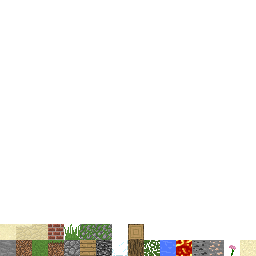
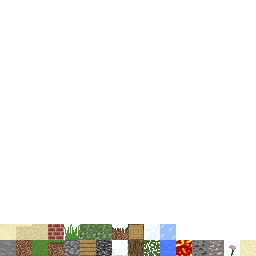
A cold biome

Changed region(s): [[0.5625, 0.875, 0.6875, 0.9375], [0.4375, 0.875, 0.5, 0.9375]]

diff --git a/src/shared/world/jeneration/jeneration.cpp b/src/shared/world/jeneration/jeneration.cpp
@@ -43,7 +43,7 @@ COverworldJeneration::COverworldJeneration()
 	m_biomesOvergroundTemperatureNoise.seed		  = m_iSeed + 102;
 	m_biomesOvergroundTemperatureNoise.noise_type = FNL_NOISE_PERLIN;
 	m_biomesOvergroundTemperatureNoise.octaves	  = 1;
-	m_biomesOvergroundTemperatureNoise.frequency  = 0.01f;
+	m_biomesOvergroundTemperatureNoise.frequency  = 0.02f;
 
 	m_biomesOvergroundHumidityNoise				 = fnlCreateState();
 	m_biomesOvergroundHumidityNoise.seed		 = m_iSeed + 22106;
@@ -102,7 +102,7 @@ void COverworldJeneration::BiomeBlocks( CChunk *c )
 			{
 				// TODO: Actually fix this as it tries to query chunks that don't exist yet.
 				CBlock *blk = c->GetBlockAtLocal( CVector( x, y, z ) );
-				if ( blk != nullptr && blk->m_iBlockType != STONE )
+				if ( blk != nullptr && blk->m_iBlockType == AIR )
 					continue;
 
 				CBlock *b = c->GetBlockAtLocal( CVector( x, y + 1, z ) );
@@ -113,8 +113,16 @@ void COverworldJeneration::BiomeBlocks( CChunk *c )
 
 				if ( b->m_iBlockType == AIR )
 				{
-					blk->m_iBlockType = biome->m_iBlockSurface;
-					grassDepth--;
+					if (blk->m_iBlockType == STONE)
+					{
+						b->m_iBlockType = biome->m_iBlockDust;
+						blk->m_iBlockType = biome->m_iBlockSurface;
+						grassDepth--;
+					}
+					else
+					{
+						blk->m_iBlockType = biome->m_iBlockWaterSurf;
+					}
 				}
 				else if ( b->m_iBlockType == biome->m_iBlockSurface ||
 						  b->m_iBlockType == biome->m_iBlockSubSurface && grassDepth > 0 )
@@ -176,14 +184,20 @@ void COverworldJeneration::Generate( CChunk *c )
 
 CBiome *COverworldJeneration::GetBiomeAtPos( CVector p )
 {
-	float fTemperature = 1.35f + fnlGetNoise2D( &m_biomesOvergroundTemperatureNoise, p.x, p.z );
+	float fTemperature = (fnlGetNoise2D( &m_biomesOvergroundTemperatureNoise, p.x, p.z ) + 1.0f);
 	// float fHumidity = fnlGetNoise2D( &m_biomesOvergroundHumidityNoise, p.x, p.z );
 
 	CBiome *closestBiome = biomes::biomeList[0];
 
 	for ( CBiome *biome : biomes::biomeList )
 	{
-		if ( fabsf( biome->m_fTemperature - fTemperature ) < fabsf( closestBiome->m_fTemperature - fTemperature ) )
+		if (fTemperature >= biome->m_fMinTemperature && fTemperature <= biome->m_fMaxTemperature)
+		{
+			return biome;
+		}
+
+		// Else try to find the closest to the max temperature
+		if ( fabsf( biome->m_fMaxTemperature - fTemperature ) < fabsf( closestBiome->m_fMaxTemperature - fTemperature ) )
 			closestBiome = biome;
 	}
 

diff --git a/src/shared/world/jeneration/biomes.cpp b/src/shared/world/jeneration/biomes.cpp
@@ -4,6 +4,7 @@ namespace biomes
 {
 	CBiome biomePlains;
 	CBiome biomeDesert;
+	CBiome biomeTundra;
 
 	std::vector<CBiome *> biomeList;
 
@@ -25,14 +26,26 @@ void InitBiomes()
 	biomePlains.m_iBlockSurface	   = GRASS;
 	biomePlains.m_iBlockSubSurface = DIRT;
 	biomePlains.m_iBlockRock	   = STONE;
-	biomePlains.m_fTemperature	   = 0.8f;
+	biomePlains.m_fMinTemperature	   = 0.6f;
+	biomePlains.m_fMaxTemperature      = 1.6f;
 	biomePlains.m_fHumidity		   = 0.4f;
 	biomeList.push_back( &biomePlains );
 
 	biomeDesert.m_iBlockSurface	   = SAND;
 	biomeDesert.m_iBlockSubSurface = SAND;
 	biomeDesert.m_iBlockRock	   = SANDSTONE;
-	biomeDesert.m_fTemperature	   = 2.0f;
+	biomeDesert.m_fMinTemperature  = 1.6f;
+	biomeDesert.m_fMaxTemperature	   = 2.0f;
 	biomeDesert.m_fHumidity		   = 0.0f;
 	biomeList.push_back( &biomeDesert );
+	
+	biomeTundra.m_iBlockSurface	   = SNOWGRASS;
+	biomeTundra.m_iBlockSubSurface = DIRT;
+	biomeTundra.m_iBlockRock	   = STONE;
+	biomeTundra.m_iBlockDust	   = SNOW;
+	biomeTundra.m_iBlockWaterSurf  = ICE;
+	biomeTundra.m_fMinTemperature	   = 0.0f;
+	biomeTundra.m_fMaxTemperature	   = 0.6f;
+	biomeTundra.m_fHumidity		   = 0.5f;
+	biomeList.push_back( &biomeTundra );
 }

diff --git a/src/shared/world/jeneration/biomes.hpp b/src/shared/world/jeneration/biomes.hpp
@@ -12,9 +12,12 @@ class CBiome
 	blocktype_t m_iBlockSurface	   = AIR; // GRASS
 	blocktype_t m_iBlockSubSurface = AIR; // DIRT
 	blocktype_t m_iBlockRock	   = AIR; // STONE
+	blocktype_t m_iBlockDust	   = AIR; // E.G SNOW
+	blocktype_t m_iBlockWaterSurf  = WATER; // E.G ICE
 
 	// 0 To 2, controls generation
-	float m_fTemperature = 0.0f;
+	float m_fMinTemperature = 0.0f;
+	float m_fMaxTemperature = 0.0f;
 	float m_fHumidity	 = 0.0f;
 };
 
@@ -24,6 +27,7 @@ namespace biomes
 {
 	extern CBiome biomePlains;
 	extern CBiome biomeDesert;
+	extern CBiome biomeTundra;
 
 	extern std::vector<CBiome *> biomeList;
 } // namespace biomes

diff --git a/src/client/rendering/blocktexture.cpp b/src/client/rendering/blocktexture.cpp
@@ -92,5 +92,22 @@ BlockTexture GetDefaultBlockTextureSide( blocktype_t type, Direction side )
 				return { 5, 1, 1, 1 };
 			return { 6, 1, 1, 1 };
 			break;
+		case SNOW:
+			return { 9, 1, 1, 1 };
+			break;
+		case SNOWGRASS:
+			if ( side == Direction::UP )
+			{
+				return { 9, 1, 1, 1 };
+			}
+			if ( side == Direction::DOWN )
+			{
+				return { 1, 0, 1, 1 };
+			}
+			return { 7, 1, 1, 1 };
+			break;
+		case ICE:
+			return { 10, 1, 1, 1 };
+			break;
 	}
 }

diff --git a/src/client/gamestates.cpp b/src/client/gamestates.cpp
@@ -153,7 +153,7 @@ void CStatePlay::Update()
 
 			CVector p  = pStateMan->m_pGui->m_vScreenCentre + CVector( -8, 5.5 );
 			CVector op = p;
-			for ( int i = blocktype_t::STONE; i < blocktype_t::MOSSCBBLE; i++ )
+			for ( int i = blocktype_t::STONE; i < blocktype_t::ICE; i++ )
 			{
 				snprintf( guiBuf, 100, "%d", i );
 				BlockTexture bTex = GetDefaultBlockTextureSide( (blocktype_t)i, Direction::NORTH );

diff --git a/src/shared/blockdef.hpp b/src/shared/blockdef.hpp
@@ -26,7 +26,10 @@ enum blocktype_t {
 	SANDSTONE = 16,
 	BRICKS	  = 17,
 	LGRASS	  = 18,
-	MOSSCBBLE = 19
+	MOSSCBBLE = 19,
+	SNOW	  = 20,
+	SNOWGRASS = 21,
+	ICE       = 22
 };
 
 enum blockmaterial_t {
